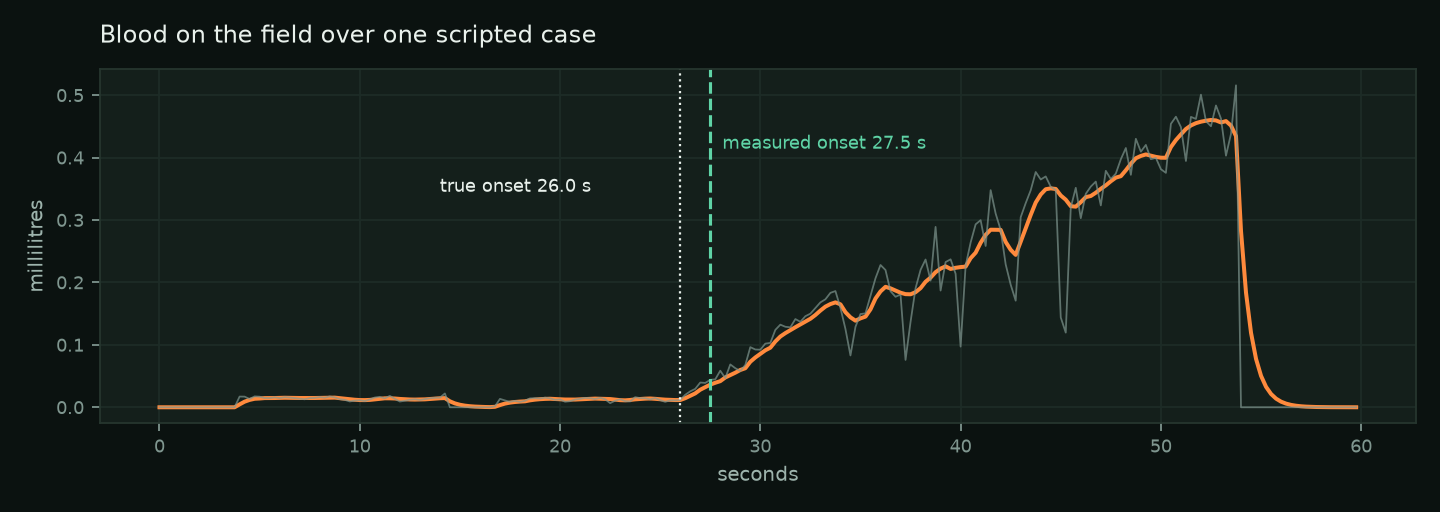
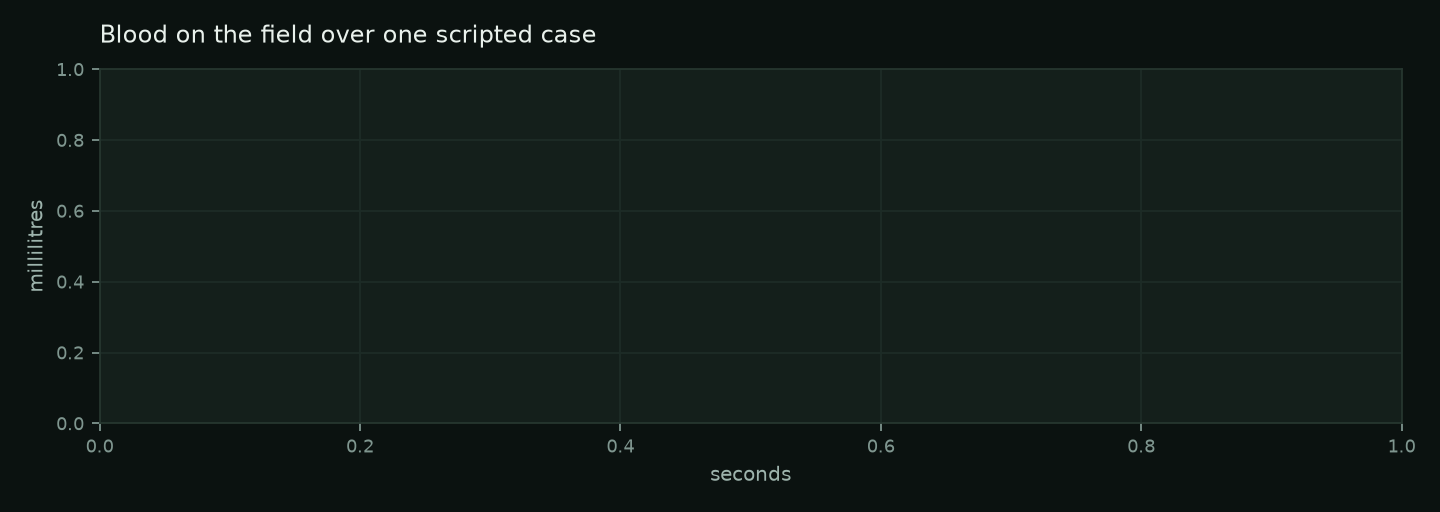
Give the refusal plot's error its own log axis, and state the test count
Past the occlusion gate the error reaches 150,000%. On a shared linear axis that
flattened the refusal curve, which is the thing the plot exists to show, onto the
baseline. The error now has a log axis on the right and each panel reads as what it
is: the gate turning on just as the error starts to climb.

diff --git a/products/scopewatch/src/scopewatch/evaluate.py b/products/scopewatch/src/scopewatch/evaluate.py
@@ -522,17 +522,34 @@ def write_plots(results: dict[str, Any], out_dir: Path) -> list[str]:
     written.append(path.name)
 
     # --- refusal sweeps ---
-    fig, axes = plt.subplots(1, 3, figsize=(12, 3.6), facecolor=ground)
+    # The refusal fraction and the error share an x-axis and nothing else. Past the
+    # occlusion gate the error reaches 150,000%, and on a shared linear y-axis that
+    # flattens the refusal curve - the thing the plot is about - onto the baseline.
+    # The error gets its own log axis on the right.
+    fig, axes = plt.subplots(1, 3, figsize=(12, 3.8), facecolor=ground)
     for ax, (kind, rows) in zip(axes, results["refusal"]["sweeps"].items()):
         levels = [r["level"] for r in rows]
         refused = [100.0 * r["refused_fraction"] for r in rows]
-        errs = [abs(r["area_error_pct_if_forced"].get("median", 0.0)) for r in rows]
-        ax.plot(levels, refused, color=accent, linewidth=2, marker="o", markersize=4,
-                label="refused, %")
-        ax.plot(levels, errs, color=ok, linewidth=1.6, linestyle="--", marker="s",
-                markersize=3, label="|error| if forced, %")
-        style(ax, kind, kind, "%")
-        leg = ax.legend(fontsize=8, facecolor=surface, edgecolor="#26362F")
+        errs = [max(0.05, abs(r["area_error_pct_if_forced"].get("median", 0.0)))
+                for r in rows]
+        ax.plot(levels, refused, color=accent, linewidth=2.2, marker="o", markersize=4,
+                label="refused, %", zorder=3)
+        ax.set_ylim(-4, 104)
+        style(ax, kind, kind, "refused, %")
+
+        twin = ax.twinx()
+        twin.plot(levels, errs, color=ok, linewidth=1.6, linestyle="--", marker="s",
+                  markersize=3, label="|error| if forced, %")
+        twin.set_yscale("log")
+        twin.set_ylabel("|error| if forced, % (log)", color="#9DB3AC", fontsize=8)
+        twin.tick_params(colors="#7F968F", labelsize=8)
+        twin.set_facecolor("none")
+        for spine in twin.spines.values():
+            spine.set_color("#26362F")
+
+        handles = ax.get_lines() + twin.get_lines()
+        leg = ax.legend(handles, [h.get_label() for h in handles], fontsize=8,
+                        facecolor=surface, edgecolor="#26362F", loc="center left")
         for text in leg.get_texts():
             text.set_color(ink)
     fig.tight_layout()

diff --git a/products/scopewatch/README.md b/products/scopewatch/README.md
@@ -120,11 +120,17 @@ cd products/scopewatch
 PYTHONPATH=src ../../.venv/bin/python -m pytest tests/ -q
 ```
 
-The suite asserts on numbers, not on "it ran": area error against an area set before
-the pixels existed, scale error against a shaft whose width we chose, onset timing
-against a bleed that starts on a frame we picked, and the refusal paths for fogging,
-defocus, occlusion and a missing scale reference. Deselect the slow video tests with
-`-m "not slow"`.
+**126 tests, all passing.** The suite asserts on numbers, not on "it ran": area error
+against an area set before the pixels existed, scale error against a shaft whose width
+we chose, onset timing against a bleed that starts on a frame we picked, and the
+refusal paths for fogging, defocus, occlusion and a missing scale reference. Several
+are regression tests for specific bugs, named after the bug: a surface vessel must not
+be counted as a pool, a settled pool must not be counted as an occlusion, a camera pan
+must not be timestamped as a haemorrhage, and a held checkpoint must survive a hundred
+further frames without resolving itself.
+
+Deselect the slow video tests with `-m "not slow"`; they generate real MP4 files and
+run the whole pipeline over them, which is most of the wall time.
 
 ---
 
